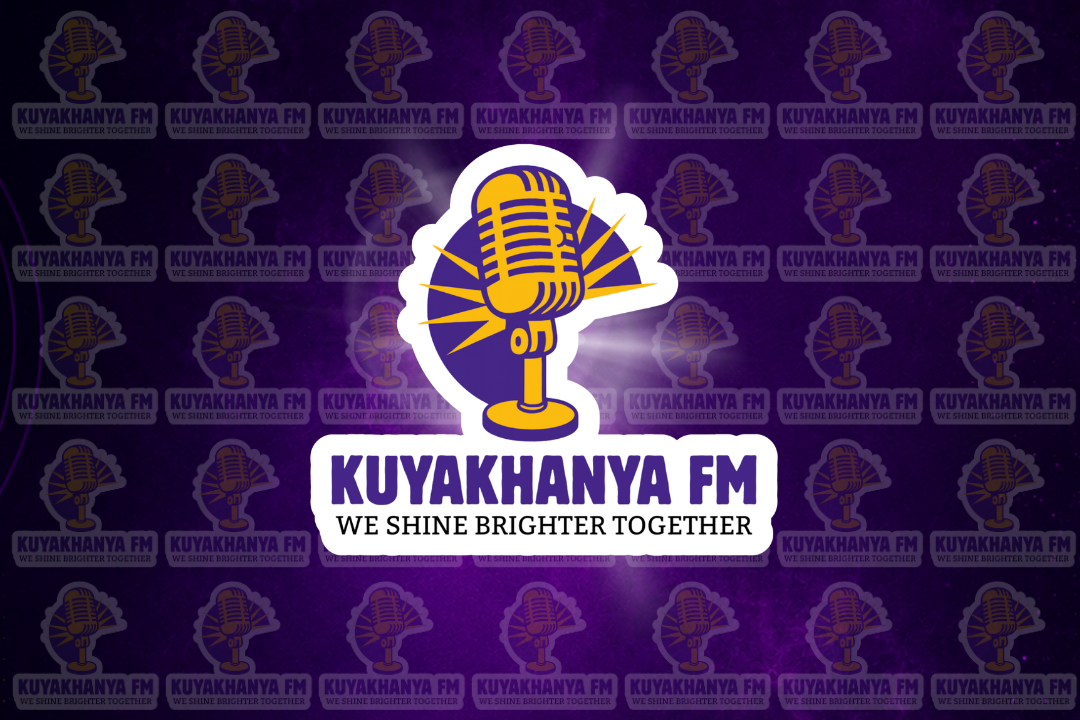
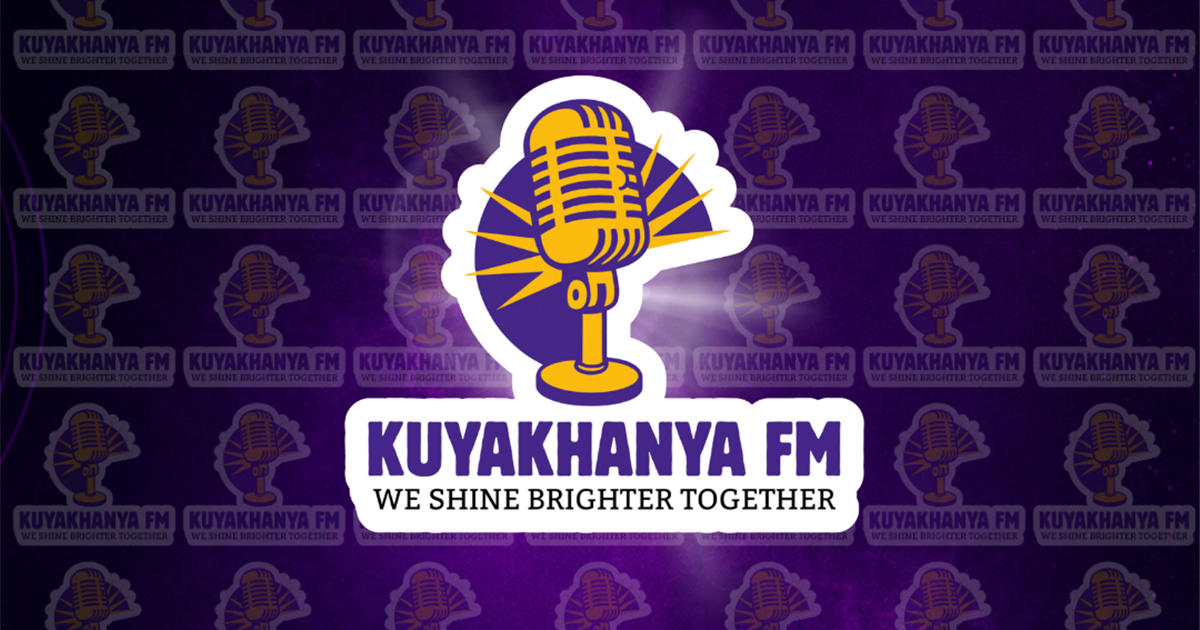
feat: 1200x630 og-image, releases APK link

diff --git a/frontend/kuyakhanya-frontend/app/layout.tsx b/frontend/kuyakhanya-frontend/app/layout.tsx
@@ -100,9 +100,9 @@ export const metadata: Metadata = {
     locale: "en_ZA",
     url: SITE_URL,
     siteName: SITE_NAME,
-    title: "KUYAKHANYA FM — We Shine Brighter Together",
+    title: "Kuyakhanya FM - We Shine Brighter Together",
     description:
-      "Bringing light to Thembalethu through Christ — live 24/7, presenters, shows, news & community. Listen live now.",
+      "Bringing light to Thembalethu through Christ — live 24/7, presenters, shows, news & community.",
     images: [
       {
         url: "/images/og-image.png",
